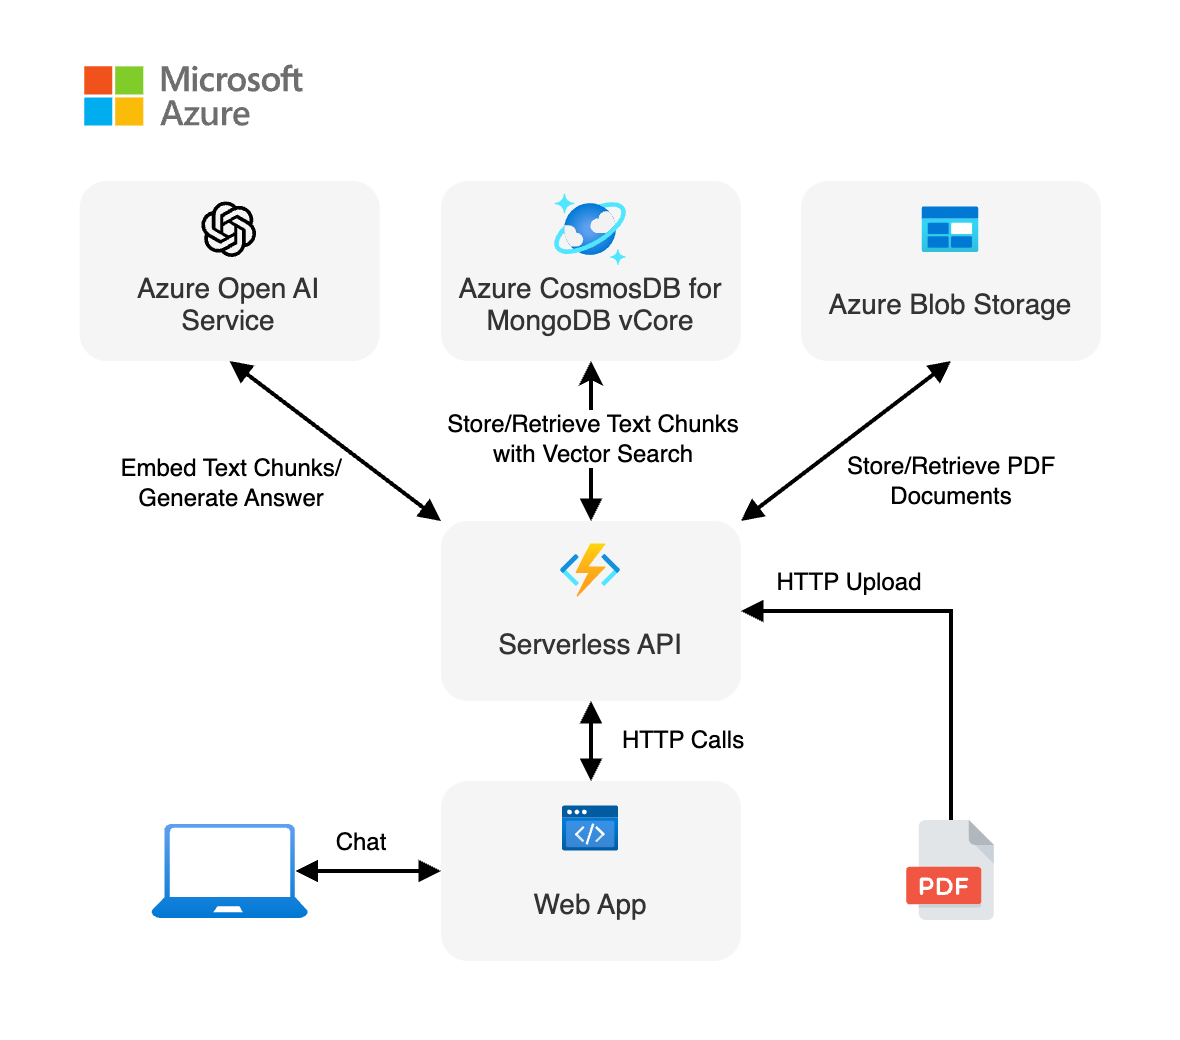
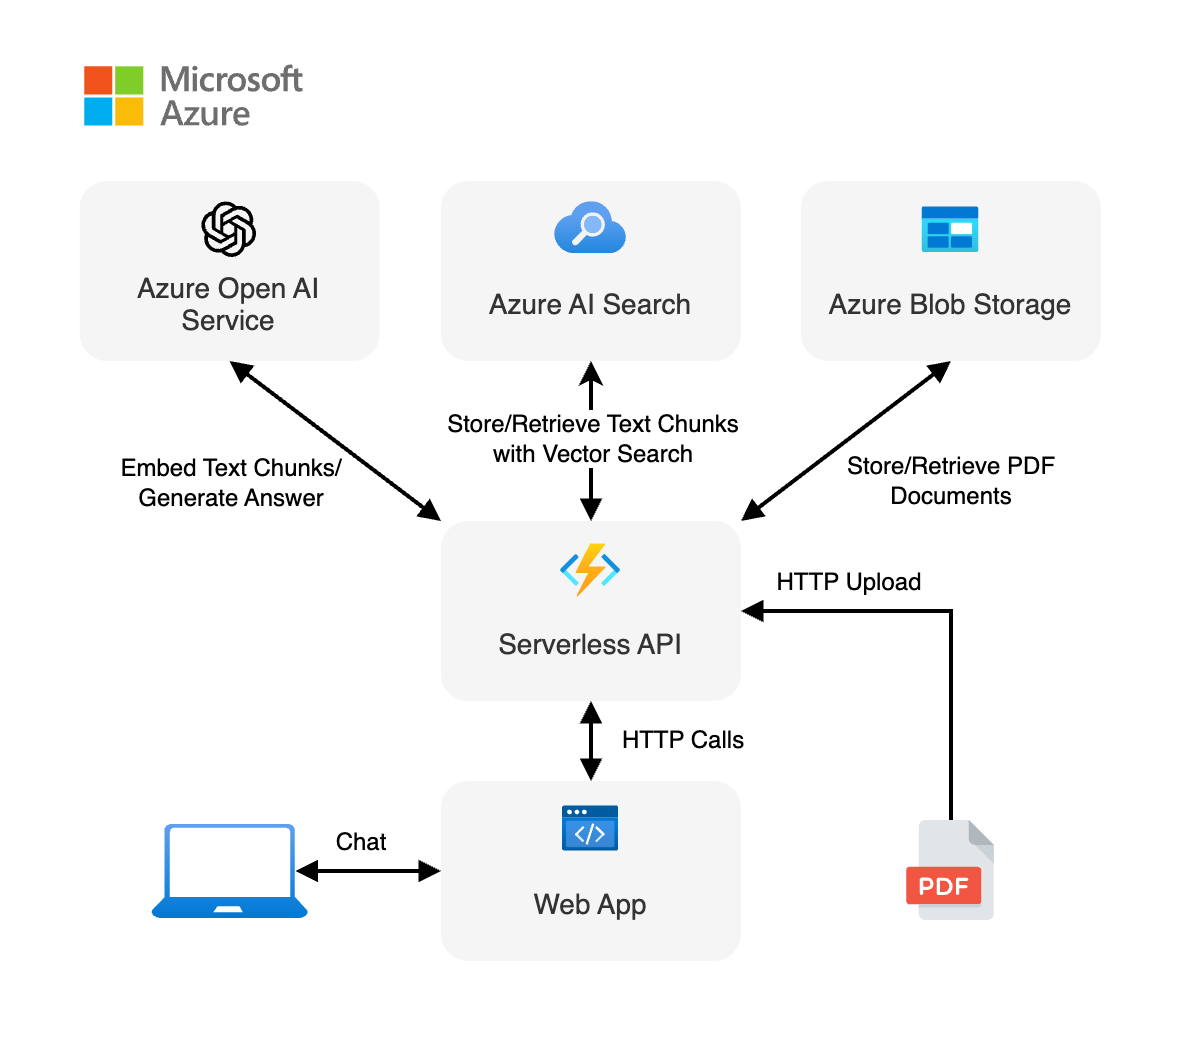
edits

Changed region(s): [[0.3966, 0.1846, 0.6102, 0.3385]]

diff --git a/articles/javascript/get-started-app-chat-template-langchainjs.md b/articles/javascript/get-started-app-chat-template-langchainjs.md
@@ -25,7 +25,7 @@ The user interacts with the application:
 
 - With the chat interface in the client web app.
 - The client web app sends the user's query to the Serverless API via HTTP calls.
-- The Serverless API interacts with Azure OpenAI Service to generate a response, using the data from Azure Cosmos DB for MongoDB vCore.
+- The Serverless API creates a chain to coordinate interactions between Azure AI and Azure AI Search to generate an answer.
 - If there's a need to reference the documents, Azure Blob Storage is used to retrieve the PDF documents.
 - The generated response is then sent back to the web app and displayed to the user.
 
@@ -45,16 +45,19 @@ The API flow is useful to understand how LangChainJS is helpful in this scenario
 - Creates a retrieval chain from the document chain and the vector store. 
 - Streams the responses from the retrieval chain.
 
-The developer's work is to correctly configure the dependencies services, such as Azure OpenAI and Azure AI Search and construct the chains correctly. The underlying chain logic knows how to resolve the query. This allows you construct chains from many different services and configurations as long as they work with the LangChain requirements. 
+The developer's work is to correctly configure the dependencies services, such as Azure OpenAI and Azure AI Search and construct the chains correctly. The underlying chain logic knows how to resolve the query. This allows you to construct chains from many different services and configurations as long as they work with the LangChain requirements. 
 
 ### Where is Azure in this architecture?
 
 This application is made from multiple components:
 
-- A web app made with a single chat web component built with [Lit](https://lit.dev) and hosted on [Azure Static Web Apps](/azure/static-web-apps/overview).
+- A web app made with a single chat web component built with [Lit](https://lit.dev) and hosted on [Azure Static Web Apps](/azure/static-web-apps). The code is located in the `packages/webapp` folder.
 
-- A serverless API built with [Azure Functions](/azure/azure-functions/functions-overview?pivots=programming-language-javascript) and using [LangChain.js](https://js.langchain.com/) to ingest the documents and generate responses to the user chat queries. 
-- A database to store the text extracted from the documents and the vectors generated by LangChain.js, using [Azure Cosmos DB for MongoDB vCore](/azure/cosmos-db/mongodb/vcore/).
+- A serverless API built with [Azure Functions](/azure/azure-functions) and using [LangChain.js](https://js.langchain.com/) to ingest the documents and generate responses to the user chat queries. The code is located in the `packages/api` folder.
+
+- An [Azure OpenAI](/azure/ai-services/openai/) service to create embeddings and generate an answer.  
+
+- A database to store the text extracted from the documents and the vectors generated by LangChain.js, using [Azure AI Search](/azure/search).
 
 - A file storage to store the source documents, using [Azure Blob Storage](/azure/storage/blobs/storage-blobs-introduction).
 
@@ -186,7 +189,8 @@ The sample repository contains all the code and configuration files you need to 
 
 1. Wait until app is deployed. It may take 5-10 minutes for the deployment to complete.
 
-    > [!NOTE]The documents are uploaded to the `/api/documents` route after the deployment is complete as a process after the `azd up` command. This is controlled by the `azure.yaml` file. 
+    > [!NOTE]
+    > The documents are uploaded to the `/api/documents` route after the deployment is complete as a process after the `azd up` command. This post-up process is controlled by the `azure.yaml` file. 
 
 1. After the application has been successfully deployed, you see two URLs displayed in the terminal. 
 1. Select that URL labeled `Deploying service webapp` to open the chat application in a browser.
